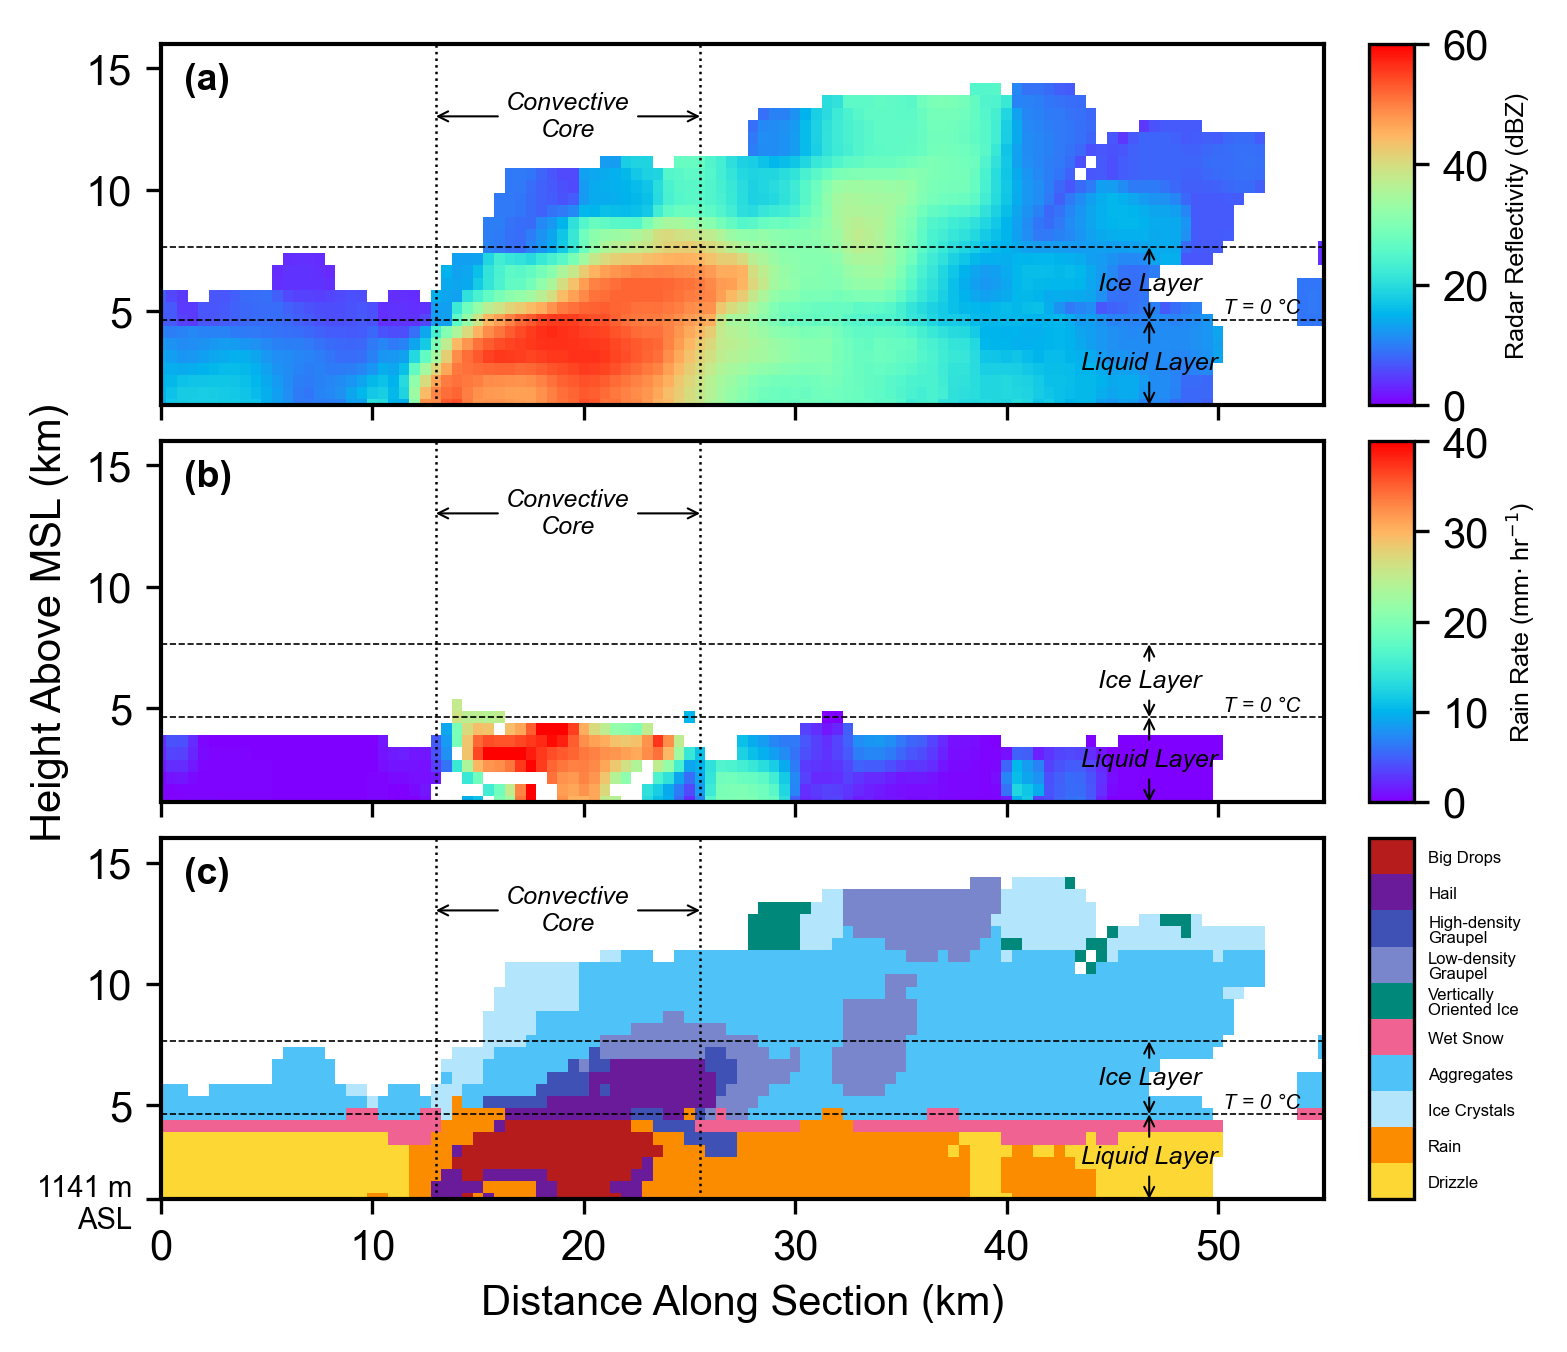
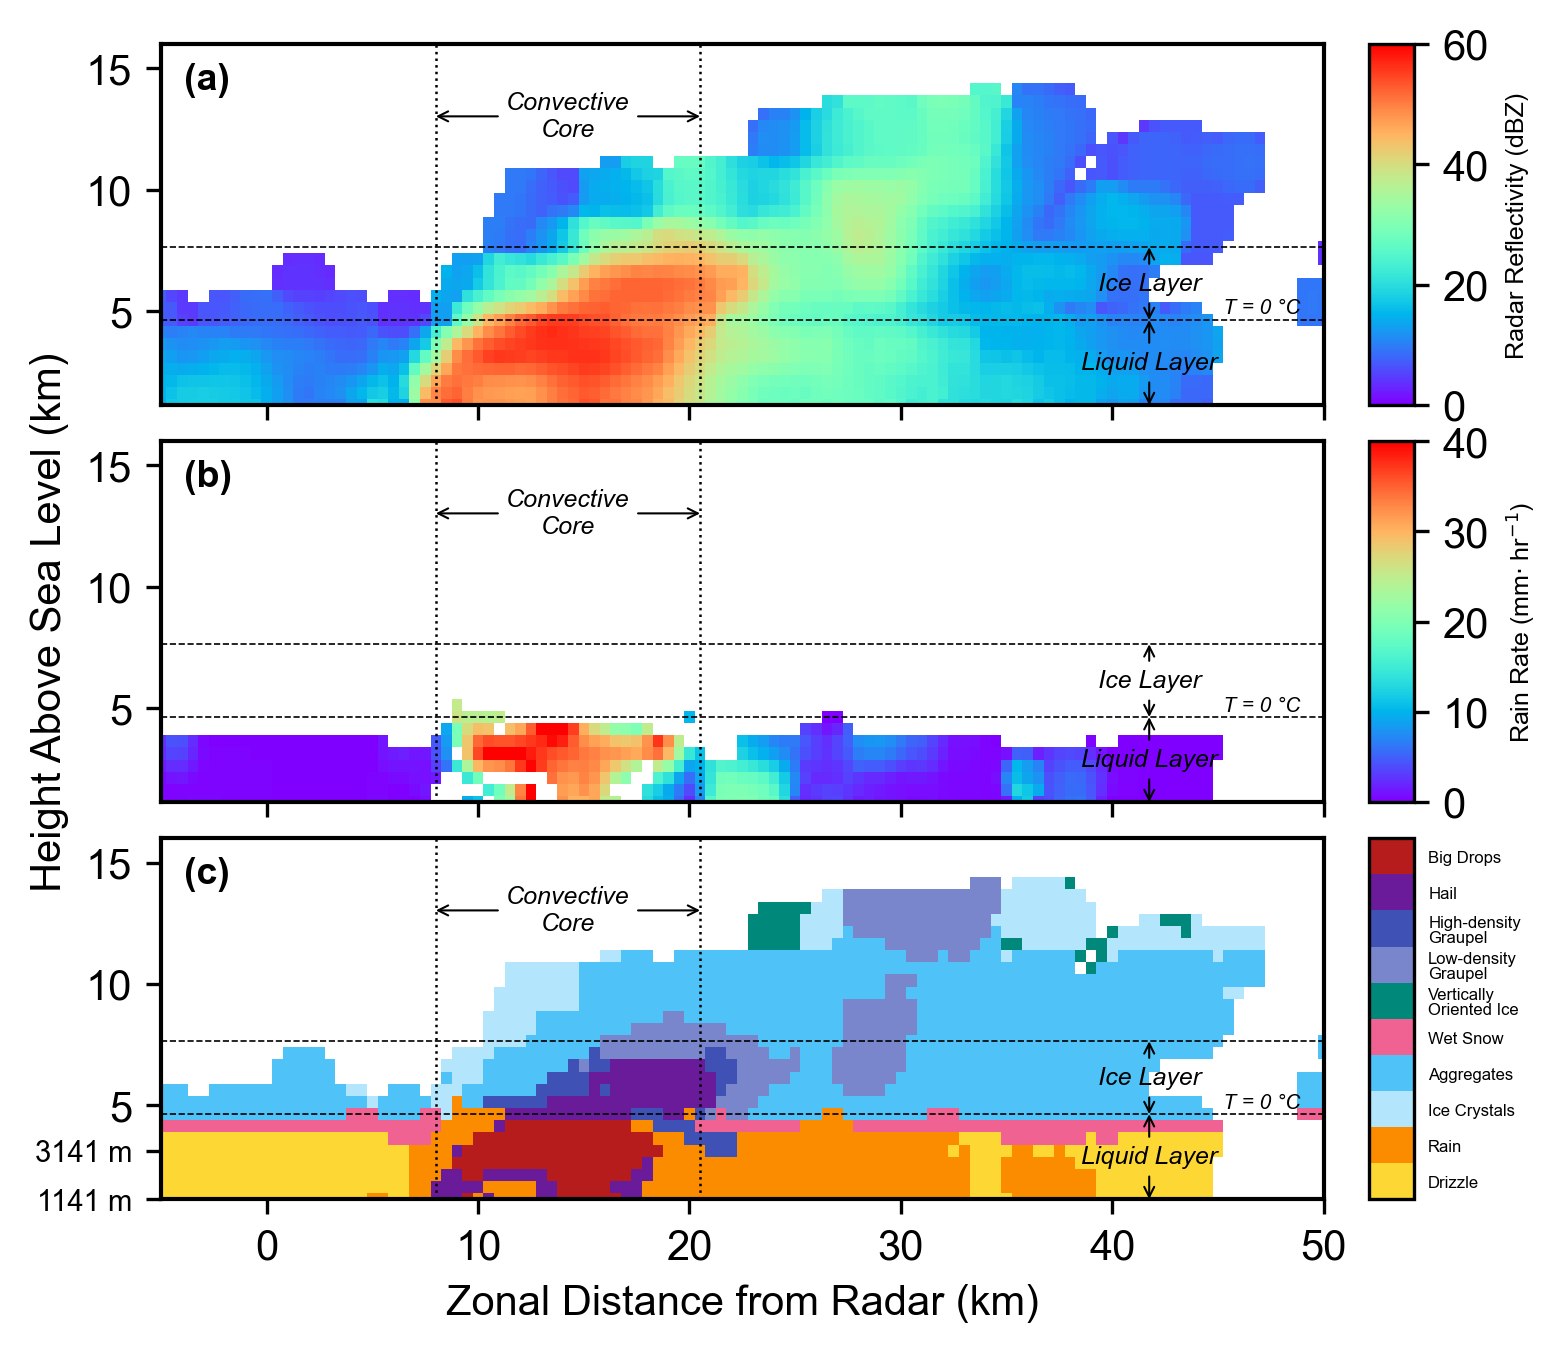
Add selectable x-axis to cross-section plot; relabel heights and theta-e units
- plots_csec.py: add `xaxis` option ('along', 'zonal', 'meridional'), default
  'zonal'; zonal/meridional require an axis-aligned section and exit otherwise
- plots_csec.py: x ticks, limits, sample positions and convective-core edges
  now use the selected x coordinate; xlabel follows the choice
- plots_csec.py: add precipitation-level tick (3141 m) alongside the radar
  altitude tick on panel (c); y label now "Height Above Sea Level (km)"
- plots_csec.py: print freezing level and section endpoint lat/lon
- supp_misc.py: theta-e difference histogram xlabel unit changed from °C to °K
- Regenerate plots/csec_xz.png and plots/supp_thetae_diff.png

diff --git a/scripts/plots_csec.py b/scripts/plots_csec.py
@@ -25,6 +25,8 @@ plots_dir        = config['plots_dir']
 time_str   = '20181102.2245'
 xkm1, ykm1 = -5, -68
 xkm2, ykm2 = 50, -68
+# Section x-axis: 'along' (distance along section), 'zonal' or 'meridional' (distance from radar)
+xaxis = 'zonal'
 
 # Radar file nearest the case time; seconds vary, so match on the full timestamp
 radar_files = sorted(glob.glob(gridded_dir + '/taranis_corcsapr2cfrppiqcM1.c1.*_gridded.nc'))
@@ -48,10 +50,27 @@ dist   = np.linspace(0, length, int(length / dx) + 1)
 ix     = xr.DataArray(np.abs(x_1d[:, None] - (xkm1 + dist / length * (xkm2 - xkm1))).argmin(0), dims='dist')
 iy     = xr.DataArray(np.abs(y_1d[:, None] - (ykm1 + dist / length * (ykm2 - ykm1))).argmin(0), dims='dist')
 
+# Plotted x coordinate; zonal/meridional need a line along that axis
+if xaxis == 'along':
+    xcoord, xlabel = dist, 'Distance Along Section (km)'
+elif xaxis == 'zonal':
+    if ykm1 != ykm2:
+        sys.exit(f"xaxis='zonal' needs a zonal section (ykm1 == ykm2), got {ykm1}, {ykm2}")
+    xcoord, xlabel = xkm1 + dist / length * (xkm2 - xkm1), 'Zonal Distance from Radar (km)'
+elif xaxis == 'meridional':
+    if xkm1 != xkm2:
+        sys.exit(f"xaxis='meridional' needs a meridional section (xkm1 == xkm2), got {xkm1}, {xkm2}")
+    xcoord, xlabel = ykm1 + dist / length * (ykm2 - ykm1), 'Meridional Distance from Radar (km)'
+else:
+    sys.exit(f"xaxis must be 'along', 'zonal' or 'meridional', got {xaxis!r}")
+# Increasing axis, so west/south is on the left; ticks on multiples of 10 km
+xlim   = (xcoord.min(), xcoord.max())
+xticks = np.arange(np.ceil(xlim[0] / 10) * 10, xlim[1] + 1, 10)
+
 sec = radar.isel(time=0, x=ix, y=iy)
 # point_altitude is m MSL
 sec_alt  = sec['point_altitude']
-sec_dist = np.broadcast_to(dist, sec_alt.shape)
+sec_dist = np.broadcast_to(xcoord, sec_alt.shape)
 
 dz   = float(sec['z'][1] - sec['z'][0])
 ylim = (float(sec['origin_altitude']), 16000)
@@ -61,17 +80,18 @@ ylim = (float(sec['origin_altitude']), 16000)
 # column suffices; z is above the radar, so add origin_altitude for m MSL
 temp     = radar['sounding_temperature_post_grid'].isel(time=0, x=0, y=0).values
 melt_msl = float(radar['z'][np.argmax(temp < 0)]) + float(radar['origin_altitude'][0])
+print(f'Freezing level: {melt_msl:.0f} m MSL')
 
 # Radar and celltracks grids are co-registered, so ix/iy index both
 tracks = xr.open_dataset(tracks_file).isel(time=0)
 
-# Along-section edges of each convective core
+# Section-axis edges of each convective core
 line       = tracks['tracknumber'].where(tracks['conv_core'] != 0).isel(lon=ix, lat=iy).values
 cell_edges = []
 for tn in np.unique(line[line > 0]):
     idxs = np.flatnonzero(line == tn)
     for run in np.split(idxs, np.flatnonzero(np.diff(idxs) > 1) + 1):
-        cell_edges += [dist[run[0]], dist[run[-1]]]
+        cell_edges += [xcoord[run[0]], xcoord[run[-1]]]
 
 # hid_classes = [
 #     ("#1f77b4", 'Drizzle'),
@@ -127,8 +147,8 @@ for ax, panel_label in zip(axs, ['(a)', '(b)', '(c)']):
     for spine in ax.spines.values():
         spine.set_linewidth(1)
     ax.set_yticks(np.arange(0, 16000, 5000), np.arange(0, 16, 5))
-    ax.set_xticks(np.arange(0, length + 1, 10))
-    ax.set_xlim(0, length)
+    ax.set_xticks(xticks)
+    ax.set_xlim(xlim)
     ax.set_ylim(ylim)
     ax.text(0.02, 0.95, panel_label, transform=ax.transAxes,
             ha='left', va='top', fontsize=9, fontweight='bold', zorder=20)
@@ -177,12 +197,17 @@ for ax in axs:
                                         shrinkA=0, shrinkB=0),
                         zorder=20)
 
-# Extra tick on panel (c) marking the radar altitude at the bottom of the axis
-axs[2].set_yticks([ylim[0], 5000, 10000, 15000], [f'{ylim[0]:.0f} m\nASL', 5, 10, 15])
-axs[2].get_yticklabels()[0].set_fontsize(7)
+# Precipitation level (m MSL)
+precip_msl = 3141
 
-axs[1].set_ylabel('Height Above MSL (km)')
-axs[2].set_xlabel('Distance Along Section (km)')
+# Extra ticks on panel (c) marking the radar altitude at the bottom of the axis and the precipitation level
+axs[2].set_yticks([ylim[0], precip_msl, 5000, 10000, 15000],
+                  [f'{ylim[0]:.0f} m', f'{precip_msl} m', 5, 10, 15])
+for t in axs[2].get_yticklabels()[:2]:
+    t.set_fontsize(7)
+
+axs[1].set_ylabel('Height Above Sea Level (km)')
+axs[2].set_xlabel(xlabel)
 
 plt.savefig(plots_dir + '/csec_xz.png', dpi=300, bbox_inches="tight")
 
@@ -208,6 +233,8 @@ untracked_cores = cores.where(~cores.isin(good_tns))
 # Section line endpoints in lon/lat, at the grid columns nearest each end
 sec_lon = [float(trk_lon[iy[0], ix[0]]), float(trk_lon[iy[-1], ix[-1]])]
 sec_lat = [float(trk_lat[iy[0], ix[0]]), float(trk_lat[iy[-1], ix[-1]])]
+print(f'Section start: y = {ykm1} km -> lat {sec_lat[0]:.3f}, lon {sec_lon[0]:.3f}')
+print(f'Section end:   y = {ykm2} km -> lat {sec_lat[1]:.3f}, lon {sec_lon[1]:.3f}')
 
 fig, ax = plt.subplots(1, 1, figsize=(5, 5), subplot_kw={'projection': proj})
 

diff --git a/scripts/supp_misc.py b/scripts/supp_misc.py
@@ -38,7 +38,7 @@ def hist_thetae_diff(plots_dir, thetae_diff):
     fig, ax = plt.subplots(figsize=(4, 3))
     sns.histplot(thetae_diff, color='skyblue', bins=THETAE_BINS, ax=ax)
     ax.axvline(THRESH, color='red')
-    ax.set_xlabel(r'$\theta_e^{\mathrm{MU}} - \theta_e^{\mathrm{SFC}}$ (°C)')
+    ax.set_xlabel(r'$\theta_e^{\mathrm{MU}} - \theta_e^{\mathrm{SFC}}$ (°K)')
     ax.set_ylabel('Count')
     ax.set_xticks(THETAE_BINS)
     for spine in ax.spines.values():
